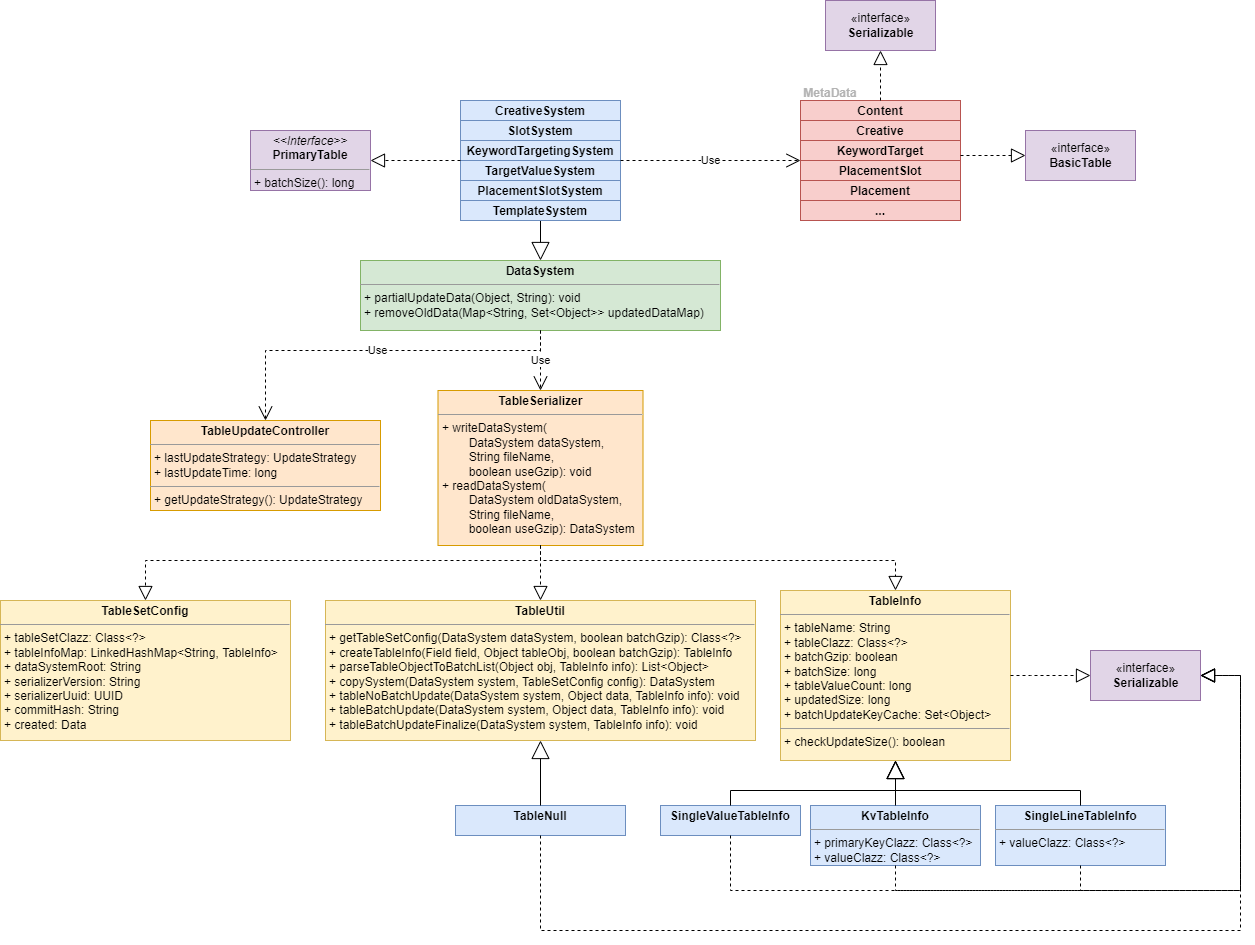
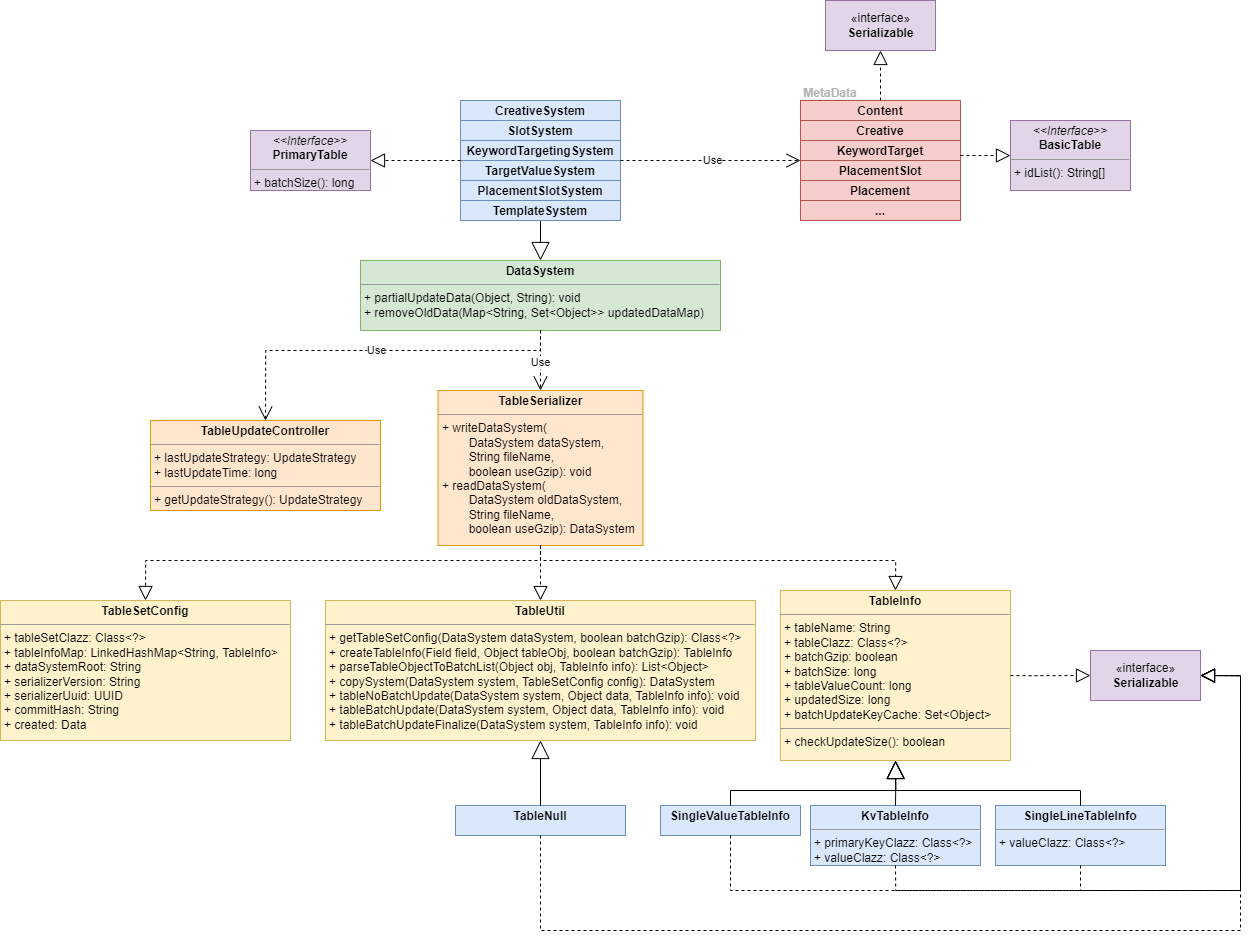
add

diff --git a/Serializer_v2.md b/Serializer_v2.md
@@ -1,8 +1,23 @@
 # Serializer Optimization Ver.2
 
 ## Commands!
-- `java -Xmx16g -jar serializer/build/libs/local-build-serializer-0.0.1-SNAPSHOT.jar`
+- `java -Xms512m -Xmx64g -jar serializer/build/libs/local-build-serializer-0.0.1-SNAPSHOT.jar`
 - `java -Xmx16g -XX:NativeMemoryTracking=detail -jar serializer/build/libs/local-build-serializer-0.0.1-SNAPSHOT.jar`
+- `java -Xmx32g -jar serializer/bu
+ild/libs/local-build-serializer-0.0.1-SNAPSHOT.jar`
+
+## Deploy
+
+### Serializer
+- [Serializer Deploy Instruction](https://spotfront.atlassian.net/wiki/spaces/EN/pages/3323527256/Serializer+Pipelines+in+ADO)
+- [File container (Staging)](https://ms.portal.azure.com/#@microsoft.onmicrosoft.com/resource/subscriptions/949ee4ba-5c35-470e-8128-7c70c8746af4/resourceGroups/staging-grf-iad-core-storage-rg/providers/Microsoft.Storage/storageAccounts/staginggrfiadcluster1/overview)
+
+### Adserver
+- [Adserver Deploy Instruction A](https://spotfront.atlassian.net/wiki/spaces/EN/pages/3176824863/Distribution+Process+of+the+New+Serializer+File#2.-PR-Build)
+- [Adserver AKS Debug](https://microsoft.sharepoint.com/teams/PromoteIQCN/_layouts/15/Doc.aspx?sourcedoc={4acfef6a-6854-41f3-be64-12211832a876}&action=edit&wd=target%28DevOps.one%7C96d19934-0d72-47f3-944c-8900c0a00b71%2FDevelopment%5C%2FDebug%20on%20AKS%7C46d3ab8f-43bb-4609-b9fd-3c02281d8aec%2F%29&wdorigin=NavigationUrl)
+- [Adserver Pipeline Instruction](https://dev.azure.com/PromoteIQ/Delivery-Hydra/_wiki/wikis/Delivery-Hydra.wiki/8/Hydra-NonProd-Pipeline)
+- [staging-grf-iad-k8s](https://ms.portal.azure.com/#@microsoft.onmicrosoft.com/resource/subscriptions/949ee4ba-5c35-470e-8128-7c70c8746af4/resourceGroups/staging-grf-iad-k8s-aks-rg/providers/Microsoft.ContainerService/managedClusters/staging-grf-iad-k8s/overview)
+
 
 ## Ver.1
 - [PR](https://github.com/spotfront/hydra/pull/1746)
@@ -44,8 +59,6 @@
           - Value = Map => Full update value map
           - Value = Set => Full update value set
           - **Value = List** => Full update value list
-          - **Value = BasicTable** => Update BasicTable
-            - Call updateData method
           - Value = Other => Full update value
       - Finalize
         - currentTable = old map value
@@ -54,8 +67,12 @@
 - Set更新逻辑
   - **Set of basic table**
     - 取出Id, 转成Map
-      - => Full update map  => `Map<id, set item>`
-      - => Delta update map => `Map<id, set item>`
+      - => Full update map  => `Map<id, SetItem>`
+        - 记录不在newSet里的key, 放入needRemove
+        - do update and add
+        - 遍历needRemove, 删除setitem
+      - => Delta update map => `Map<id, SetItem>`
+        - 
   - Set of other objects
     - => Full update (currentSet, newSet)
       - 遍历currentSet, 记录不在newSet中的key,放入needRemove
@@ -92,11 +109,8 @@
         - 遍历new list，把非non的pointer放入新list并返回
 
 - **BasicTable**
-  - Do object compare & update
-    - extends Metadata class
-      - 每个metadata 实现自己的update方法 <= Current
-      - 用反射获取每个field的value, 并compare & update
-    - 直接用 compareUtil, compare & update
+  - 用idList记录数据主键
+  - 用反射取出对应的值，并组成集合（idSet）
 
 ### T3
 
